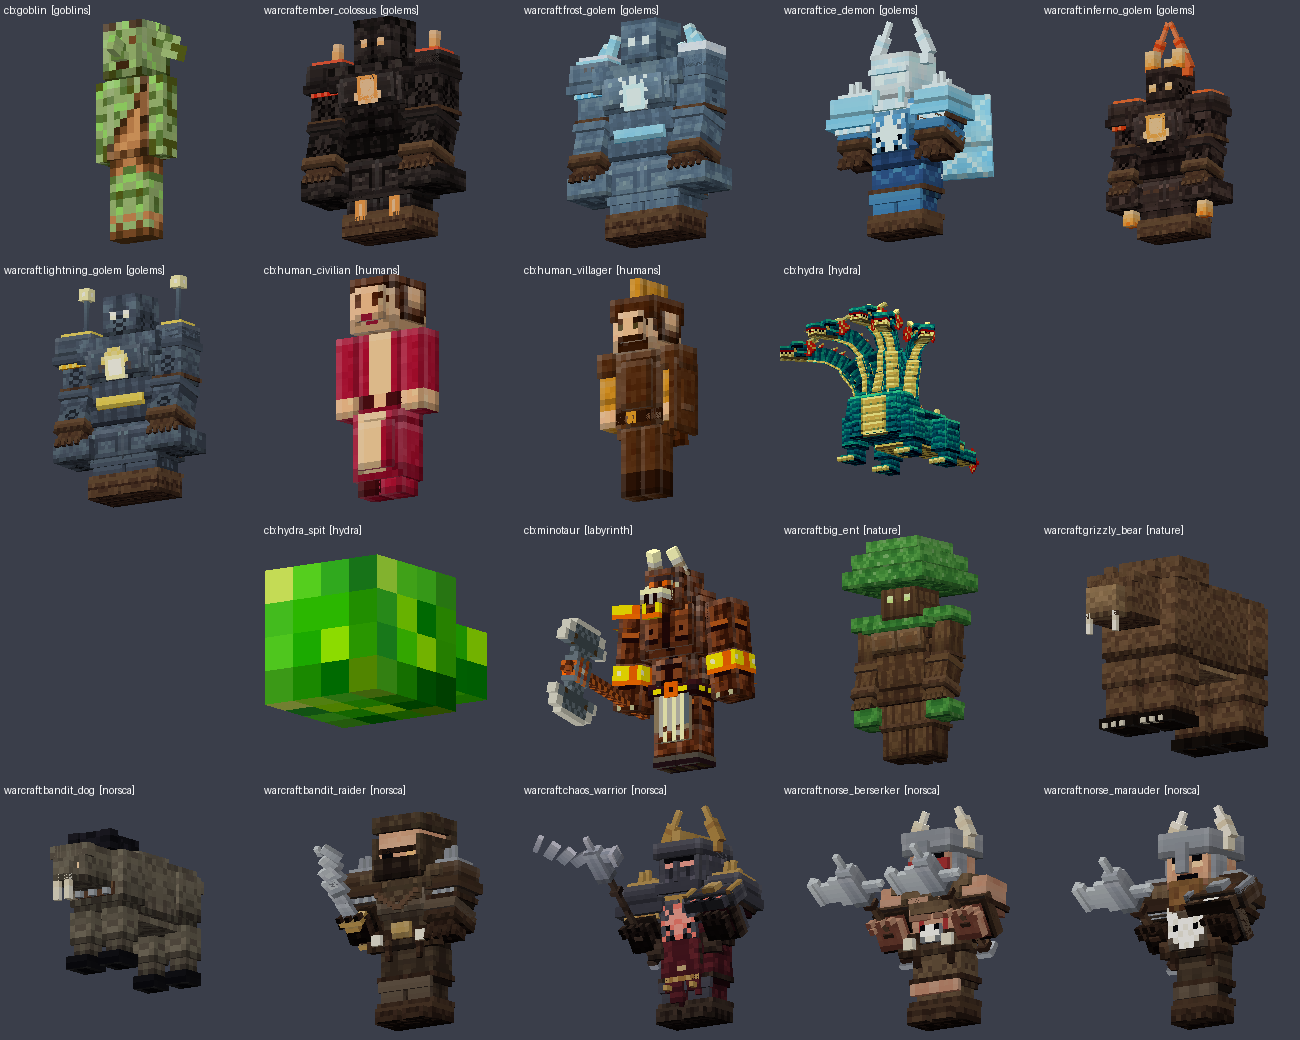
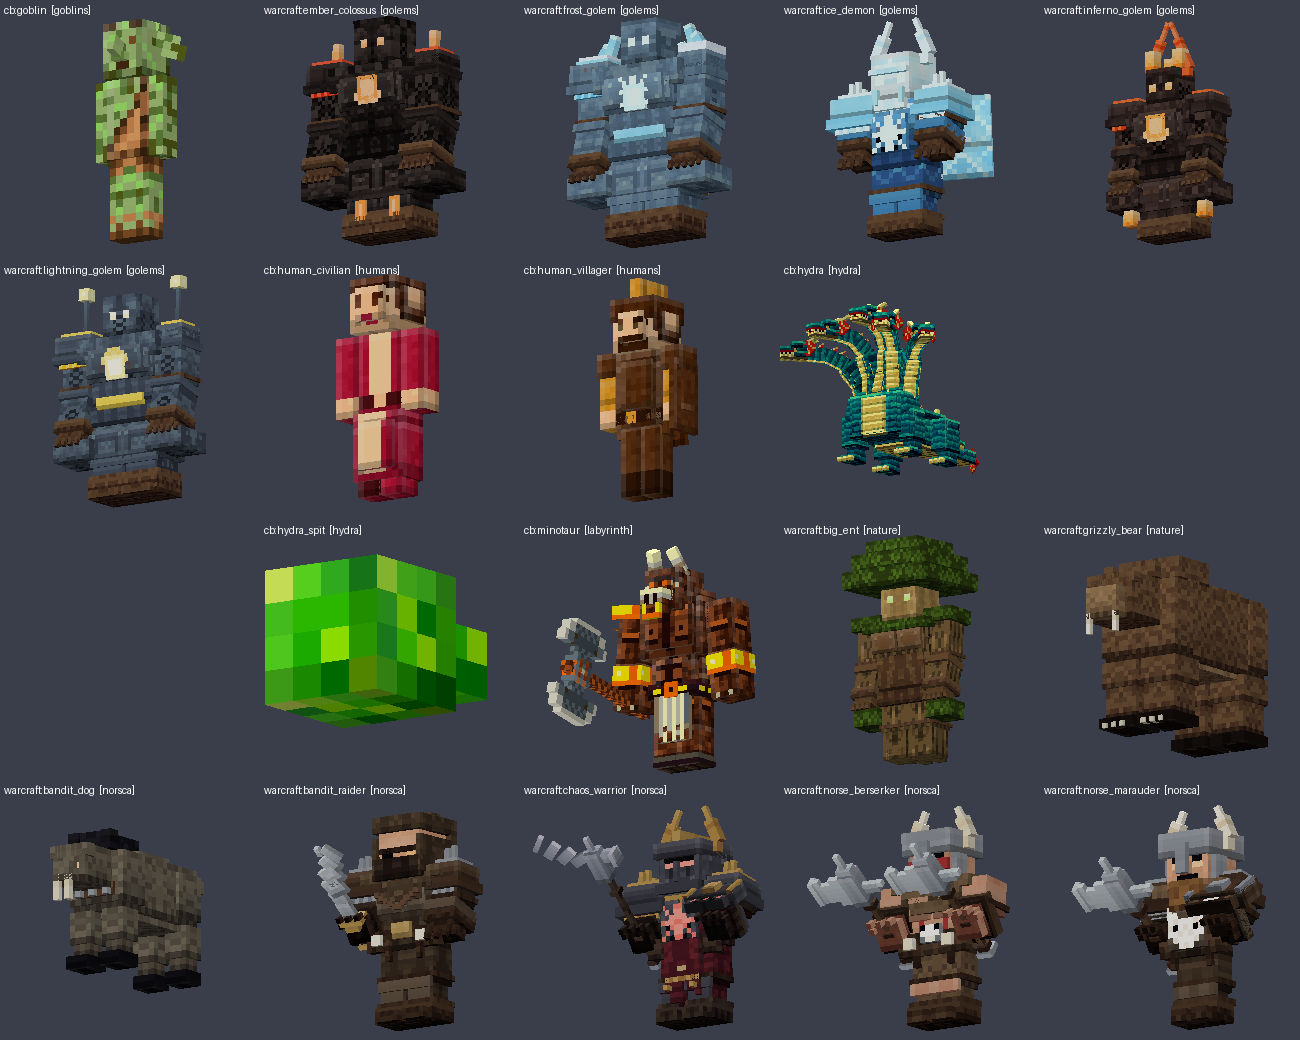
feat(warhammer): big ent painted with real vanilla log/leaf textures, one variant per vanilla tree (13)
Claude-Session: https://claude.ai/code/session_018KDgimrahfzFzuKG9sFsWH

Changed region(s): [[0.6462, 0.4923, 0.7692, 0.7385]]

diff --git a/warhammer_unified/addon/behavior_pack/scripts/warhammer_main.js b/warhammer_unified/addon/behavior_pack/scripts/warhammer_main.js
@@ -1012,8 +1012,8 @@ function triggerEntRootSlam(ent, st) {
   playAnim(ent, 1, 26);
   const dim = ent.dimension, loc = ent.location;
   const vId = getEntVariant(ent);
-  // 0=Oak, 1=Birch, 2=Spruce, 3=Cherry, 4=Crimson(Nether), 5=Warped(Nether)
-  safeSound(dim, vId >= 4 ? "mob.blaze.shoot" : "dig.wood", loc);
+  // 0=oak, 1=birch, 2=spruce, 3=cherry, 4=crimson, 5=warped, 6=jungle, 7=acacia, 8=dark_oak, 9=mangrove, 10=pale_oak, 11=azalea, 12=poplar (4, 5 = Nether stems)
+  safeSound(dim, (vId === 4 || vId === 5) ? "mob.blaze.shoot" : "dig.wood", loc);
   safeSound(dim, "mob.ravager.roar", loc);
   const pMain = vId === 4 ? "minecraft:basic_flame_particle"
               : vId === 5 ? "minecraft:blue_flame_particle"
@@ -1057,6 +1057,26 @@ function triggerEntRootSlam(ent, st) {
       } else if (vId === 5) {
         v.addEffect("levitation", 40, { amplifier: 0, showParticles: true });
         v.addEffect("wither", 70, { amplifier: 0, showParticles: true });
+      } else if (vId === 6) {  // jungle
+        v.addEffect("poison", 100, { amplifier: 1, showParticles: true });
+        v.addEffect("slowness", 50, { amplifier: 1, showParticles: true });
+      } else if (vId === 7) {  // acacia
+        v.addEffect("hunger", 120, { amplifier: 1, showParticles: true });
+        v.addEffect("slowness", 50, { amplifier: 1, showParticles: true });
+      } else if (vId === 8) {  // dark_oak
+        v.addEffect("blindness", 60, { amplifier: 0, showParticles: true });
+        v.addEffect("slowness", 90, { amplifier: 3, showParticles: true });
+      } else if (vId === 9) {  // mangrove
+        v.addEffect("slowness", 100, { amplifier: 4, showParticles: true });
+      } else if (vId === 10) {  // pale_oak
+        v.addEffect("darkness", 80, { amplifier: 0, showParticles: true });
+        v.addEffect("weakness", 80, { amplifier: 1, showParticles: true });
+      } else if (vId === 11) {  // azalea
+        v.addEffect("nausea", 80, { amplifier: 0, showParticles: true });
+        v.addEffect("slowness", 40, { amplifier: 1, showParticles: true });
+      } else if (vId === 12) {  // poplar
+        v.addEffect("levitation", 20, { amplifier: 0, showParticles: true });
+        v.addEffect("slowness", 60, { amplifier: 2, showParticles: true });
       }
     } catch {}
   }
@@ -1067,7 +1087,7 @@ function triggerEntEatTreeHeal(ent, st) {
   const dim = ent.dimension, loc = ent.location;
   const vId = getEntVariant(ent);
   safeSound(dim, "random.eat", loc);
-  safeSound(dim, vId >= 4 ? "mob.blaze.ambient" : "dig.wood", loc);
+  safeSound(dim, (vId === 4 || vId === 5) ? "mob.blaze.ambient" : "dig.wood", loc);
   const healAmt = vId === 3 ? 30 : 22;
   try {
     const hp = ent.getComponent("minecraft:health");
@@ -1199,7 +1219,7 @@ system.runInterval(() => {
       }
     } catch {}
 
-    // Ancient Treant (Big Ent — 6 vanilla tree variants + WC3 Peace-Only Rooting & Vulnerable Transitions!)
+    // Ancient Treant (Big Ent — 13 vanilla tree variants + WC3 Peace-Only Rooting & Vulnerable Transitions!)
     try {
       for (const ent of dim.getEntities({ type: BIG_ENT_ID })) {
         const st = getSt(ent, { rootCd: 70, healCd: 120, rootState: "mobile", morphEnd: 0, lastCombatTick: now });

diff --git a/warhammer_unified/tools/ent_variants.py b/warhammer_unified/tools/ent_variants.py
@@ -1,0 +1,71 @@
+"""Big Ent: one variant per vanilla tree (oak ... poplar, crimson/warped stems). Adds the new variants 6+ to the
+client entity, the render controller, the behaviour (component groups + spawn roll) and the Big Ent script, whose old
+code treated every variant >= 4 as a Nether ent."""
+import os, json, glob
+from forge.mobs_beasts import ENT_VARIANTS
+
+# stats of the new trees: (health, damage, speed, knockback resistance, spawn weight)
+STATS = {"jungle": (150, 8, 0.29, 0.7, 14), "acacia": (140, 8, 0.31, 0.6, 12), "dark_oak": (200, 10, 0.21, 0.95, 12),
+         "mangrove": (170, 8, 0.25, 0.85, 12), "pale_oak": (165, 9, 0.24, 0.8, 10), "azalea": (130, 6, 0.28, 0.6, 12),
+         "poplar": (145, 7, 0.28, 0.7, 12)}
+
+# per-tree slam effects for the new variants (vanilla effect ids), appended to the script's if/else chain
+EFFECTS = {
+    "jungle": '        v.addEffect("poison", 100, { amplifier: 1, showParticles: true });\n        v.addEffect("slowness", 50, { amplifier: 1, showParticles: true });',
+    "acacia": '        v.addEffect("hunger", 120, { amplifier: 1, showParticles: true });\n        v.addEffect("slowness", 50, { amplifier: 1, showParticles: true });',
+    "dark_oak": '        v.addEffect("blindness", 60, { amplifier: 0, showParticles: true });\n        v.addEffect("slowness", 90, { amplifier: 3, showParticles: true });',
+    "mangrove": '        v.addEffect("slowness", 100, { amplifier: 4, showParticles: true });',
+    "pale_oak": '        v.addEffect("darkness", 80, { amplifier: 0, showParticles: true });\n        v.addEffect("weakness", 80, { amplifier: 1, showParticles: true });',
+    "azalea": '        v.addEffect("nausea", 80, { amplifier: 0, showParticles: true });\n        v.addEffect("slowness", 40, { amplifier: 1, showParticles: true });',
+    "poplar": '        v.addEffect("levitation", 20, { amplifier: 0, showParticles: true });\n        v.addEffect("slowness", 60, { amplifier: 2, showParticles: true });',
+}
+
+
+def _dump(p, d):
+    with open(p, "w", encoding="utf-8") as f: json.dump(d, f, indent=2, ensure_ascii=False)
+
+
+def run(out):
+    rp, bp = f"{out}/resource_pack", f"{out}/behavior_pack"
+    keys = list(ENT_VARIANTS)
+    # client entity
+    p = f"{rp}/entity/big_ent.entity.json"
+    d = json.load(open(p, encoding="utf-8"))
+    d["minecraft:client_entity"]["description"]["textures"] = {k: f"textures/entity/big_ent_{k}" for k in keys}
+    _dump(p, d)
+    # render controller
+    p = f"{rp}/render_controllers/big_ent.render_controllers.json"
+    d = json.load(open(p, encoding="utf-8"))
+    d["render_controllers"]["controller.render.big_ent"]["arrays"]["textures"]["Array.skins"] = [f"Texture.{k}" for k in keys]
+    _dump(p, d)
+    # behaviour
+    p = f"{bp}/entities/big_ent.json"
+    d = json.load(open(p, encoding="utf-8"))
+    e = d["minecraft:entity"]
+    cg, roll = e["component_groups"], e["events"]["minecraft:entity_spawned"]["randomize"]
+    have = {r["add"]["component_groups"][0] for r in roll}
+    for i, k in enumerate(keys):
+        if k not in STATS: continue
+        hp, dmg, spd, kb, wt = STATS[k]
+        cg[f"ent_{k}"] = {"minecraft:variant": {"value": i}, "minecraft:health": {"value": hp, "max": hp},
+                          "minecraft:attack": {"damage": dmg}, "minecraft:movement": {"value": spd},
+                          "minecraft:knockback_resistance": {"value": kb}}
+        if f"ent_{k}" not in have:
+            roll.append({"weight": wt, "add": {"component_groups": [f"ent_{k}"]}})
+    _dump(p, d)
+    # script
+    p = f"{bp}/scripts/warhammer_main.js"
+    s = open(p, encoding="utf-8").read()
+    s = s.replace("vId >= 4 ?", "(vId === 4 || vId === 5) ?")
+    s = s.replace("// 0=Oak, 1=Birch, 2=Spruce, 3=Cherry, 4=Crimson(Nether), 5=Warped(Nether)",
+                  "// " + ", ".join(f"{i}={k}" for i, k in enumerate(keys)) + " (4, 5 = Nether stems)")
+    s = s.replace("6 vanilla tree variants", f"{len(keys)} vanilla tree variants")
+    anchor = '''      } else if (vId === 5) {
+        v.addEffect("levitation", 40, { amplifier: 0, showParticles: true });
+        v.addEffect("wither", 70, { amplifier: 0, showParticles: true });
+      }'''
+    if anchor in s:
+        extra = "".join(f'\n      }} else if (vId === {keys.index(k)}) {{  // {k}\n{code}' for k, code in EFFECTS.items())
+        s = s.replace(anchor, anchor[:-8] + extra + "\n      }", 1)
+    open(p, "w", encoding="utf-8").write(s)
+    return len(keys)

diff --git a/warhammer_unified/tools/forge/mobs_beasts.py b/warhammer_unified/tools/forge/mobs_beasts.py
@@ -20,14 +20,38 @@ def _ent_pal(trunk, leaf, glow="#c8ff60", leaf2=None):
     return pal(armor=trunk, skin=trunk, wood=trunk, leaf=leaf, leaf2=leaf2 or leaf, glow=glow, dark="#140c06", bone="#e6dcc0", cloth=trunk, trim=leaf)
 
 
+# Every vanilla tree. Index = minecraft:variant value (0-5 are the original six, keep their order).
+# bark/top/inner/leaves are real vanilla block textures (tools/data/vanilla/blocks); tint = vanilla default foliage colour
+# for the grey leaf textures (oak/birch/spruce/jungle/acacia/dark oak/mangrove), None for leaves that carry their own colour.
 ENT_VARIANTS = {
-    "oak": dict(trunk="#6a4a2a", leaf="#4aa83a", glow="#c8ff60"),
-    "birch": dict(trunk="#d8d4c4", leaf="#8ac848", glow="#e8ffa0"),
-    "spruce": dict(trunk="#3e2a18", leaf="#2a6a3a", glow="#a0ffc0"),
-    "cherry": dict(trunk="#5a3a30", leaf="#f0a0c8", glow="#ffd0e8"),
-    "crimson": dict(trunk="#5a2030", leaf="#b02840", glow="#ff8080"),
-    "warped": dict(trunk="#1c5a5a", leaf="#20b0a0", glow="#80fff0"),
+    "oak": dict(trunk="#6a4a2a", leaf="#4aa83a", glow="#c8ff60", bark="log_oak", top="log_oak_top", inner="stripped_oak_log", leaves="leaves_oak_opaque", tint="#77ab2f"),
+    "birch": dict(trunk="#d8d4c4", leaf="#8ac848", glow="#e8ffa0", bark="log_birch", top="log_birch_top", inner="stripped_birch_log", leaves="leaves_birch_opaque", tint="#80a755"),
+    "spruce": dict(trunk="#3e2a18", leaf="#2a6a3a", glow="#a0ffc0", bark="log_spruce", top="log_spruce_top", inner="stripped_spruce_log", leaves="leaves_spruce_opaque", tint="#619961"),
+    "cherry": dict(trunk="#5a3a30", leaf="#f0a0c8", glow="#ffd0e8", bark="cherry_log_side", top="cherry_log_top", inner="stripped_cherry_log_side", leaves="cherry_leaves_opaque", tint=None),
+    "crimson": dict(trunk="#5a2030", leaf="#b02840", glow="#ff8080", bark="crimson_log_side", top="crimson_log_top", inner="stripped_crimson_stem_side", leaves="nether_wart_block", tint=None),
+    "warped": dict(trunk="#1c5a5a", leaf="#20b0a0", glow="#80fff0", bark="warped_stem_side", top="warped_stem_top", inner="stripped_warped_stem_side", leaves="warped_wart_block", tint=None),
+    "jungle": dict(trunk="#5a4220", leaf="#30a020", glow="#d0ff70", bark="log_jungle", top="log_jungle_top", inner="stripped_jungle_log", leaves="leaves_jungle_opaque", tint="#30bb0b"),
+    "acacia": dict(trunk="#5a5450", leaf="#9a9a30", glow="#ffe080", bark="log_acacia", top="log_acacia_top", inner="stripped_acacia_log", leaves="leaves_acacia_opaque", tint="#aea42a"),
+    "dark_oak": dict(trunk="#3a2a18", leaf="#3a8a28", glow="#b0ff60", bark="log_big_oak", top="log_big_oak_top", inner="stripped_dark_oak_log", leaves="leaves_big_oak_opaque", tint="#59ae30"),
+    "mangrove": dict(trunk="#4a3a2a", leaf="#7ab030", glow="#e0ff80", bark="mangrove_log_side", top="mangrove_log_top", inner="stripped_mangrove_log_side", leaves="mangrove_leaves_opaque", tint="#8db127"),
+    "pale_oak": dict(trunk="#4a4440", leaf="#8a9088", glow="#ff9a40", bark="pale_oak_log_side", top="pale_oak_log_top", inner="stripped_pale_oak_log_side", leaves="pale_oak_leaves_opaque", tint=None),
+    "azalea": dict(trunk="#6a4a2a", leaf="#6a8a30", glow="#ff9ad8", bark="log_oak", top="log_oak_top", inner="stripped_oak_log", leaves=("azalea_leaves_opaque", "azalea_leaves_flowers_opaque"), tint=None),
+    "poplar": dict(trunk="#8a8478", leaf="#e09030", glow="#ffd060", bark="poplar_log_side", top="poplar_log_top", inner="stripped_poplar_log_side", leaves=("yellow_poplar_leaves_opaque", "orange_poplar_leaves_opaque", "red_poplar_leaves_opaque"), tint=None),
 }
+
+
+def vanillaize_ent(m, variant):
+    """Swap the generated wood/leaf materials for the real vanilla textures of this tree (same equality pattern for
+    every variant, so all variants share one UV layout / geometry)."""
+    v = ENT_VARIANTS[variant]
+    for bn, b in m.bones.items():
+        for c in b["cubes"]:
+            st = c.mat.get("style")
+            if st == "wood":
+                face = "head" in bn and c.mat.get("decals")          # the carved face: stripped (inner) wood
+                c.mat = dict(c.mat, vtex=v["inner"] if face else v["bark"], vtop=v["inner"] if face else v["top"])
+            elif st == "leaf":
+                c.mat = dict(c.mat, vtex=v["leaves"], vtint=v["tint"])
 
 
 def big_ent(variant="oak"):

diff --git a/warhammer_unified/tools/forge/core.py b/warhammer_unified/tools/forge/core.py
@@ -90,6 +90,20 @@ def paint_face(mat, face, w, h, pal, seed=0):
         for y in range(h):
             for x in range(w):
                 img[y, x] = ramp_at(ramp, tone + amp * gmap[(y + oy) % 16, (x + ox) % 16])
+    # real vanilla block pixels (true colours, optional foliage tint): used e.g. for the ents' bark and leaves
+    if mat.get("vtex"):
+        from .vanilla import vtile
+        nm = mat["vtop"] if (face in ("up", "down") and mat.get("vtop")) else mat["vtex"]
+        names = list(nm) if isinstance(nm, (list, tuple)) else [nm]
+        t = vtile(names[_hash(seed, "vn") % len(names)])
+        ox, oy = _hash(seed, "vx") % 16, _hash(seed, "vy") % 16
+        rgb = t[(np.arange(h)[:, None] + oy) % 16, (np.arange(w)[None, :] + ox) % 16][..., :3]
+        if mat.get("vtint"):
+            rgb = rgb * np.array(hex2rgb(mat["vtint"]), float) / 255.0
+        br = (1.0 + 0.10 * (mat.get("tone", 3.0) - 3.0)) * {"up": 1.06, "north": 1.0, "south": 0.86, "east": 0.93, "west": 0.93, "down": 0.66}[face]
+        img[..., :3] = np.clip(rgb * br, 0, 255).astype(np.uint8)
+        img[..., 3] = 255
+        style = "vtex"
     light = ramp_at(ramp, tone + 1.0)
     dark = ramp_at(ramp, tone - 1.0)
     dark2 = ramp_at(ramp, tone - 2.0)
@@ -214,7 +228,7 @@ def paint_face(mat, face, w, h, pal, seed=0):
     # "flat" -> nothing
 
     # ---- painterly depth: smooth colour patches + crease shading (no pixel noise)
-    if style not in ("glow", "flame", "woven") and w >= 6 and h >= 6:
+    if style not in ("glow", "flame", "woven", "vtex") and w >= 6 and h >= 6:
         cs = 5
         gw, gh = w // cs + 2, h // cs + 2
         grid = np.array([[(_hash(seed, gx, gy, "p") % 100) / 50.0 - 1.0 for gx in range(gw)] for gy in range(gh)])

diff --git a/warhammer_unified/tools/build_models.py b/warhammer_unified/tools/build_models.py
@@ -4,7 +4,7 @@ sys.path.insert(0, os.path.dirname(__file__))
 from mcgeo import load_json
 from forge.registry import REG
 from forge.common import ENT
-from forge.mobs_beasts import big_ent, ENT_VARIANTS
+from forge.mobs_beasts import big_ent, ENT_VARIANTS, vanillaize_ent
 from forge.anim import anims_for
 from forge.signature import SIG
 
@@ -34,6 +34,7 @@ def run(out, only=None, report=None):
         key = ent.split(":")[1] if ent.startswith("warcraft:") else ent.replace(":", "_")
         if key == "inferno_golem" and ent.startswith("warcraft:"): key = "inferno_golem"
         if key in SIG: SIG[key](m)
+        if ent == "warcraft:big_ent": vanillaize_ent(m, "oak")
         geo_id = info["geometry"]["default"]
         assert m.ident == geo_id, f"{ent}: model ident {m.ident} != client geometry {geo_id}"
         m.finalize()
@@ -46,10 +47,13 @@ def run(out, only=None, report=None):
         # textures (variants for the ent)
         tex_map = info["textures"]
         if ent == "warcraft:big_ent":
-            for key, path in tex_map.items():
+            for key in ENT_VARIANTS:                        # every vanilla tree, written as textures/entity/big_ent_<tree>
+                path = f"textures/entity/big_ent_{key}"
                 mv = big_ent(key).model
                 SIG["big_ent"](mv)
+                vanillaize_ent(mv, key)
                 mv.finalize()
+                assert mv.tw == m.tw, "ent variants must share one atlas size"
                 p = os.path.join(rp, path + ".png")
                 os.makedirs(os.path.dirname(p), exist_ok=True)
                 mv.texture.save(p)

diff --git a/warhammer_unified/tools/build_all.py b/warhammer_unified/tools/build_all.py
@@ -1,7 +1,7 @@
 """Full pipeline: python3 build_all.py <original-extracted-dir> <out-dir> [--zip path.mcaddon]"""
 import sys, os, shutil, argparse
 sys.path.insert(0, os.path.dirname(__file__))
-import build_models, restyle, items_style, patch_bp, package, strip_strays, remove_orc_gear, banners
+import build_models, ent_variants, restyle, items_style, patch_bp, package, strip_strays, remove_orc_gear, banners
 from forge.registry import REG
 from forge.common import ENT
 
@@ -15,7 +15,9 @@ def main():
         shutil.copytree(os.path.join(a.src, part), os.path.join(a.out, part))
     st = build_models.run(a.out)
     print("models regenerated:", len(st), "cubes total", sum(s[1] for s in st))
+    print("big ent tree variants:", ent_variants.run(a.out))
     skip = set(t for e in REG for t in ENT[e]["textures"].values())
+    skip |= {f"textures/entity/big_ent_{k}" for k in ent_variants.ENT_VARIANTS}      # generated vanilla-wood ents
     print("floating cubes removed:", strip_strays.run(a.out))
     print("vanilla banners on orc leaders (textures):", banners.run(a.out))
     print("orc gear files removed:", remove_orc_gear.run(a.out))

diff --git a/warhammer_unified/tools/forge/vanilla.py b/warhammer_unified/tools/forge/vanilla.py
@@ -27,6 +27,13 @@ def _tile(kind, name):
     return np.clip((lum - lum.mean()) / (2.2 * sd), -1, 1)
 
 
+@functools.lru_cache(maxsize=None)
+def vtile(name):
+    """A real vanilla block tile (16x16 RGBA float, true colours; animated flipbooks give their first frame)."""
+    im = Image.open(os.path.join(DIR, "blocks", name + ".png")).convert("RGBA").crop((0, 0, 16, 16))
+    return np.asarray(im).astype(float)
+
+
 def grain(style, slot, seed):
     """Return (16x16 grain map in [-1,1], amplitude) or None."""
     if style not in STYLE_TILE: return None

diff --git a/warhammer_unified/README.md b/warhammer_unified/README.md
@@ -161,3 +161,14 @@ python3 tools/gallery.py addon previews
   (ромб, нижняя/центральная/средняя полосы, половина по горизонтали, круг, две каймы) на ванильных текстурах узоров, но голубой и серые оттенки заменены цветами кожи орка
   (коричневый, зелёный, красный). Код: `tools/banners.py` (`ominous_layers`).
 * Знамя отодвинуто за спину (раньше врезалось в голову и спину и мерцало), шест соединён с телом коротким креплением.
+
+## Правка v8: энты из ванильной древесины и листвы всех пород
+
+* Большой энт (`warcraft:big_ent`) теперь окрашен **настоящими ванильными текстурами** (пиксели блоков без перекраски): кора — бревно породы, торцы — срез бревна,
+  лицо — обтёсанное (stripped) бревно, крона и листва на плечах — листва этой породы с ванильным цветом травы/листвы биома (оттенок как в игре по умолчанию).
+* Породы — все деревья игры, по одному варианту на каждое (индекс = `minecraft:variant`): 0 дуб, 1 берёза, 2 ель, 3 вишня, 4 багровый стебель, 5 искажённый стебель,
+  6 джунгли, 7 акация, 8 тёмный дуб, 9 мангровое, 10 бледный дуб, 11 азалия (цветущая листва), 12 тополь (жёлтая/оранжевая/красная листва).
+  Варианты 6–12 новые: у каждого свои здоровье, урон, скорость, сопротивление отбрасыванию и эффект удара корнями (яд, голод, слепота, вязкость, тьма, тошнота, подброс).
+  Старый скрипт считал все варианты ≥4 адскими — исправлено на 4 и 5.
+* Источник текстур — ванильные блоки (присланный `textures.zip` совпадает с ними пиксель в пиксель; тополь и непрозрачная листва взяты из официальных bedrock-samples).
+  Код: `tools/forge/mobs_beasts.py` (`ENT_VARIANTS`, `vanillaize_ent`), `tools/ent_variants.py`, ключ материала `vtex` в `tools/forge/core.py`. Превью: `previews/big_ent_trees.png`.
